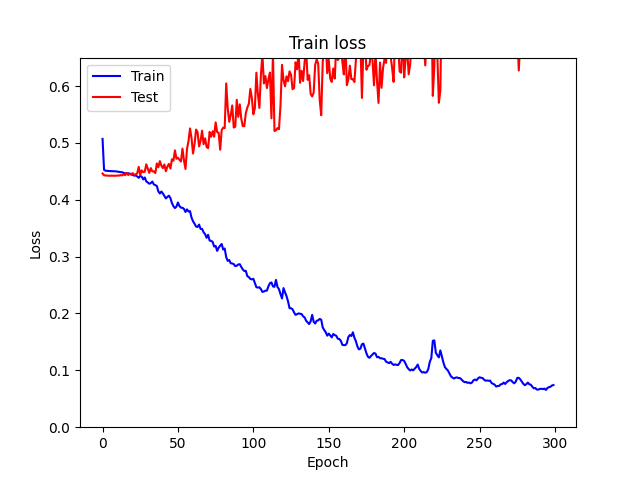
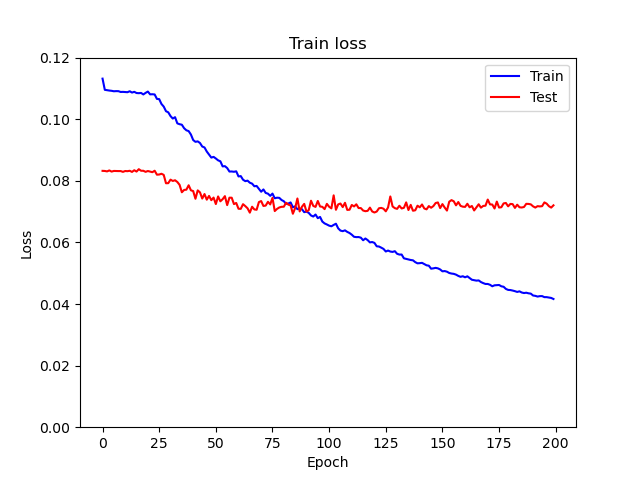
added argparser to train.py

diff --git a/train.py b/train.py
@@ -1,140 +1,189 @@
 #import os
+import argparse
 import torch
 from torchvision import transforms
-#import torchvision.transforms.functional as F
 import numpy as np
 from model.unet import UNet
 from torch.utils.data import DataLoader
 import matplotlib.pyplot as plt
-#from PIL import Image
-#import cv2
 from utils import lenslessEventsVoxel, lenslessEvents
 
 
-#Set paths
-train_lensless_path = 'data/lensless_videos_dataset/train/lensless_events'
-train_gt_path = 'data/lensless_videos_dataset/train/gt_events'
-test_lensless_path = 'data/lensless_videos_dataset/test/lensless_events'
-test_gt_path = 'data/lensless_videos_dataset/test/gt_events'
+def train(epochs, test_epochs, learning_rate, dataset_dir):
 
-#Load CUDA
-device = torch.device('cuda' if torch.cuda.is_available() else 'cpu')
-print("[INFO] Using device: ", device)
+    #Set paths
+    train_lensless_path = dataset_dir + 'train/lensless_events'
+    train_gt_path = dataset_dir + 'train/gt_events'
+    test_lensless_path = dataset_dir + 'test/lensless_events'
+    test_gt_path = dataset_dir + 'test/gt_events'
 
-#Transforms
-transform = None
-# mean = (0, 0, 0)
-# std = (0.2, 0.2, 0.2)
-#transform = transforms.Compose([transforms.Normalize(mean, std)])
-#unorm = UnNormalize(mean, std)
+    #Load CUDA
+    device = torch.device('cuda' if torch.cuda.is_available() else 'cpu')
+    print("[INFO] Using device: ", device)
 
-#Create datasets
-print("[INFO] Loading dataset and dataloader...")
-train_data = lenslessEventsVoxel(train_lensless_path, train_gt_path, transform = transform)
-test_data = lenslessEventsVoxel(test_lensless_path, test_gt_path, transform = transform)
+    #Transforms
+    transform = None
+    # mean = (0, 0, 0)
+    # std = (0.2, 0.2, 0.2)
+    #transform = transforms.Compose([transforms.Normalize(mean, std)])
+    #unorm = UnNormalize(mean, std)
 
+    #Create datasets
+    print("[INFO] Loading dataset and dataloader...")
+    train_data = lenslessEventsVoxel(train_lensless_path, train_gt_path, transform = transform)
+    test_data = lenslessEventsVoxel(test_lensless_path, test_gt_path, transform = transform)
 
-#Create dataloaders
-trainloader = DataLoader(train_data, batch_size=1, shuffle=True)
-testloader = DataLoader(test_data, batch_size=1, shuffle=False)
+    #Create dataloaders
+    trainloader = DataLoader(train_data, batch_size=1, shuffle=True)
+    testloader = DataLoader(test_data, batch_size=1, shuffle=True)
 
-#Load Model
-print("[INFO] Loading model...")
-net = UNet(3,3)
-net.to(device)
+    #Load Model
+    print("[INFO] Loading model...")
+    net = UNet(3,3)
+    net.to(device)
 
-#Training parameters
-learning_rate = 0.001
-epochs = 300
+    #Loss function and optimizer
+    criterion = torch.nn.MSELoss()
+    optimizer = torch.optim.Adam(net.parameters(), lr = learning_rate)
 
-#Loss function and optimizer
-criterion = torch.nn.MSELoss()
-optimizer = torch.optim.Adam(net.parameters(), lr = learning_rate)
+    #Train loop
+    print("[INFO] Training...")
+    train_loss = []
+    test_loss = []
 
-#Train loop
-print("[INFO] Training...")
-train_loss = []
-test_loss = []
+    for epoch in range(1,epochs+1):
+        train_running_loss = 0
+        test_running_loss = 0
 
-for epoch in range(1,epochs+1):
-    train_running_loss = 0
-    test_running_loss = 0
-
-    #Train
-    for data in trainloader:
-        #Get image and ground truth
-        lensless, gt = data[0].to(device), data[1].to(device)
-
-        # zero the parameter gradients
-        optimizer.zero_grad()
-
-        #Forward + backward + optimize
-        output = net(lensless)
-        loss = criterion(output, gt)
-        loss.backward()
-        optimizer.step()
-        train_running_loss += loss.item()
-
-    #Test
-    with torch.no_grad():
-        for data in testloader:
+        #Train
+        for data in trainloader:
             #Get image and ground truth
-            test_lensless,  test_gt = data[0].to(device), data[1].to(device)
+            lensless, gt = data[0].to(device), data[1].to(device)
 
-            #Forward 
-            test_output = net(test_lensless)
-            loss = criterion(test_output,  test_gt)
-            test_running_loss += loss.item()
+            # zero the parameter gradients
+            optimizer.zero_grad()
+
+            #Forward + backward + optimize
+            output = net(lensless)
+            loss = criterion(output, gt)
+            loss.backward()
+            optimizer.step()
+            train_running_loss += loss.item()
+
+        #Test
+        with torch.no_grad():
+            for data in testloader:
+                #Get image and ground truth
+                test_lensless,  test_gt = data[0].to(device), data[1].to(device)
+
+                #Forward 
+                test_output = net(test_lensless)
+                loss = criterion(test_output,  test_gt)
+                test_running_loss += loss.item()
 
 
-    #Print Statistics
-    train_loss.append(train_running_loss / len(trainloader))
-    test_loss.append(test_running_loss / len(testloader))
+        #Print Statistics
+        train_loss.append(train_running_loss / len(trainloader))
+        test_loss.append(test_running_loss / len(testloader))
 
 
-    print("[%3d / %3d] Train loss: %.6f | Test loss: %.6f " % (epoch, epochs, 
-                                            train_running_loss / len(trainloader),
-                                            test_running_loss / len(testloader))
-                                            )
+        print("[%3d / %3d] Train loss: %.6f | Test loss: %.6f " % (epoch, epochs, 
+                                                train_running_loss / len(trainloader),
+                                                test_running_loss / len(testloader))
+                                                )
 
-    if epoch % 10 == 0:
-        lensless = np.transpose(lensless[0].cpu().detach().numpy(), (1,2,0))
-        gt = np.transpose(gt[0].cpu().detach().numpy(), (1,2,0))
-        output = np.transpose(output[0].cpu().detach().numpy(), (1,2,0))
+        if epoch % test_epochs == 0:
+            #Get train example from CUDA to display
+            lensless = np.transpose(lensless[0].cpu().detach().numpy(), (1,2,0))
+            gt = np.transpose(gt[0].cpu().detach().numpy(), (1,2,0))
+            output = np.transpose(output[0].cpu().detach().numpy(), (1,2,0))
 
-        # lensless = lensless[0][0].cpu().detach().numpy()
-        # gt = gt[0][0].cpu().detach().numpy()
-        # output = output[0][0].cpu().detach().numpy()
+            #Get test example from CUDA to display
+            test_lensless = np.transpose(test_lensless[0].cpu().detach().numpy(), (1,2,0))
+            test_gt = np.transpose(test_gt[0].cpu().detach().numpy(), (1,2,0))
+            test_output = np.transpose(test_output[0].cpu().detach().numpy(), (1,2,0))
 
-        #DRaw figure with input, groundtruth and output
-        fig, ax = plt.subplots(1,3, figsize=(12,4))
-        fig.tight_layout()
-        ax[0].imshow(lensless)
-        ax[0].set_title('Lensless')
-        ax[0].set_xticks([])
-        ax[0].set_yticks([])
-        ax[1].imshow(gt)
-        ax[1].set_title('Groundtruth')
-        ax[1].set_xticks([])
-        ax[1].set_yticks([])
-        ax[2].imshow(output)
-        ax[2].set_title('Output')
-        ax[2].set_xticks([])
-        ax[2].set_yticks([])
-        fig.savefig('results/'+str(epoch).zfill(3) + '_comparisons.png')
+            # lensless = lensless[0][0].cpu().detach().numpy()
+            # gt = gt[0][0].cpu().detach().numpy()
+            # output = output[0][0].cpu().detach().numpy()
+
+            #Draw figure with input, groundtruth and output from training data
+            fig, ax = plt.subplots(1,3, figsize=(12,4))
+            fig.tight_layout()
+            ax[0].imshow(lensless)
+            ax[0].set_title('Lensless')
+            ax[0].set_xticks([])
+            ax[0].set_yticks([])
+            ax[1].imshow(gt)
+            ax[1].set_title('Groundtruth')
+            ax[1].set_xticks([])
+            ax[1].set_yticks([])
+            ax[2].imshow(output)
+            ax[2].set_title('Output')
+            ax[2].set_xticks([])
+            ax[2].set_yticks([])
+            fig.savefig('results/train/'+str(epoch).zfill(3) + '_comparisons.png')
+
+            #Draw figure with input, groundtruth and output from test data
+            fig0, ax0 = plt.subplots(1,3, figsize=(12,4))
+            fig0.tight_layout()
+            ax0[0].imshow(test_lensless)
+            ax0[0].set_title('Lensless')
+            ax0[0].set_xticks([])
+            ax0[0].set_yticks([])
+            ax0[1].imshow(test_gt)
+            ax0[1].set_title('Groundtruth')
+            ax0[1].set_xticks([])
+            ax0[1].set_yticks([])
+            ax0[2].imshow(test_output)
+            ax0[2].set_title('Output')
+            ax0[2].set_xticks([])
+            ax0[2].set_yticks([])
+            fig0.savefig('results/test/'+str(epoch).zfill(3) + '_comparisons.png')
 
                                                             
 
-#Save trained model
-#torch.save(net.state_dict(), 'model/state_dict.pth')
+    #Save trained model
+    torch.save(net.state_dict(), 'model/state_dict.pth')
 
-#Save Loss graphic
-fig1, ax1 = plt.subplots()
-ax1.plot(train_loss, color = 'blue', label="Train")
-ax1.plot(test_loss, color = 'red', label="Test")
-ax1.legend()
-ax1.set_title("Train loss")
-ax1.set_xlabel("Epoch")
-ax1.set_ylabel("Loss")
-ax1.set_ylim(top = .7 , bottom=0)
-fig1.savefig('plots/losses.png')
+    #Save Loss graphic
+    fig1, ax1 = plt.subplots()
+    ax1.plot(train_loss, color = 'blue', label="Train")
+    ax1.plot(test_loss, color = 'red', label="Test")
+    ax1.legend()
+    ax1.set_title("Train loss")
+    ax1.set_xlabel("Epoch")
+    ax1.set_ylabel("Loss")
+    ax1.set_ylim(top = .12 , bottom=0)
+    fig1.savefig('plots/losses.png')
+
+
+
+
+if __name__ == "__main__":
+    parser = argparse.ArgumentParser()
+    parser.add_argument("-i",  "--dataset_dir",     help="directory",                   default="data/lensless_videos_dataset/")
+    parser.add_argument("-e",  "--epochs",          help="total number of epochs",      type=int,   default=300)
+    parser.add_argument("-te", "--test_epochs",     help="epochs to produce result",    type=int,   default=5)
+    parser.add_argument("-lr", "--learning_rate",   help="for adam optimizer",          type=int,   default=.001)
+    
+
+    #Get arguments
+    args = parser.parse_args()
+    dataset_dir = args.dataset_dir
+    epochs = args.epochs
+    test_epochs = args.test_epochs
+    learning_rate = args.learning_rate
+
+    #Print info in console
+    print("-------Training Parameters--------")
+    print("----------------------------------")
+    print("Epochs:                  ", epochs)
+    print("Test epochs:             ", test_epochs)
+    print("Learning rate:           ", learning_rate)
+    print("----------------------------------")
+
+    #Train 
+    train(epochs, test_epochs, learning_rate, dataset_dir)
+
+    print("Done!")

diff --git a/createTimeWindows.py b/createTimeWindows.py
@@ -13,7 +13,7 @@ gt_events_dir = 'data/lensless_videos_dataset/gt_events'
 #Timewindow properties
 timewindow_ms = 30
 max_time_ms = 3000 - timewindow_ms
-min_events = 3000
+min_events = 5000
 
 #Load all txt files in directories
 _, _, gt_txt_files = next(os.walk(gt_txt_dir))
@@ -25,7 +25,7 @@ def make_filename(idx, video_name):
 
 #For storing valid indices (non-zero)
 
-#Loop through lensles txt files
+#Loop through lensless txt files
 for txt_file_name in lensless_txt_files:
     idx = 1
     video_name = txt_file_name.split('.')[0]
@@ -43,7 +43,7 @@ for txt_file_name in lensless_txt_files:
     p = data['p'].to_numpy()
 
     #Loop through time windows
-    print("Lensless event count: ")
+    #print("Lensless event count: ")
     for window in range(0, max_time_ms, timewindow_ms):
         t_start = window * 1e-3
         t_end = t_start + timewindow_ms * 1e-3
@@ -53,7 +53,7 @@ for txt_file_name in lensless_txt_files:
         win_file = os.path.join(lensless_events_dir, make_filename(idx, video_name))
 
         #Save window if it contains more than the minimum events
-        print(t[window_idxs].shape[0])
+        #print(t[window_idxs].shape[0])
         if t[window_idxs].shape[0] > min_events:
             np.savez(win_file, t=t[window_idxs], x=x[window_idxs], y=y[window_idxs], p=p[window_idxs])
 

diff --git a/simPSF.py b/simPSF.py
@@ -28,8 +28,8 @@ if __name__ == "__main__":
     single_name = video_name.split('.')
     result_name = results_dir + single_name[0] + '.avi'
     cropped_name = cropped_dir + single_name[0] + '.avi'
-    # psf_path = 'data/videos_dataset/psf/psf_16bit_baffle.tif'
-    psf_path = 'data/videos_dataset/psf/pinholePSF.png'
+    psf_path = 'data/videos_dataset/psf/psf_16bit_baffle.tif'
+    #psf_path = 'data/videos_dataset/psf/pinholePSF.png'
     #psf_path = 'data/videos_dataset/psf/delta2.png'
 
     
